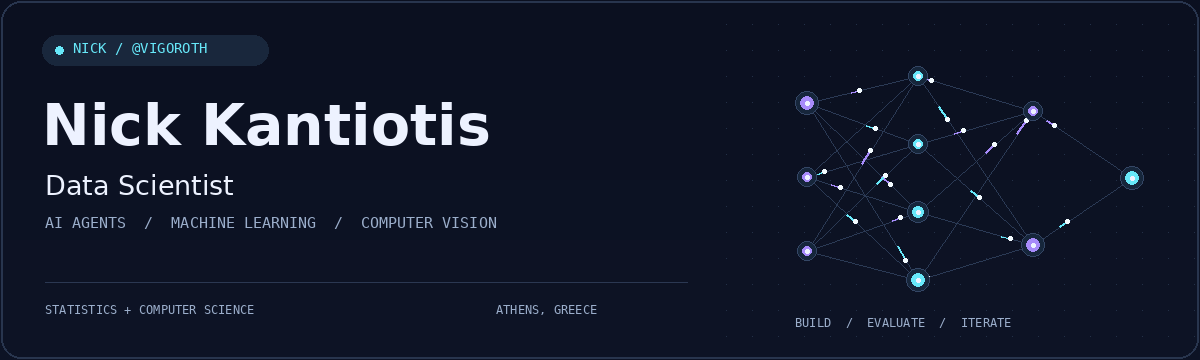
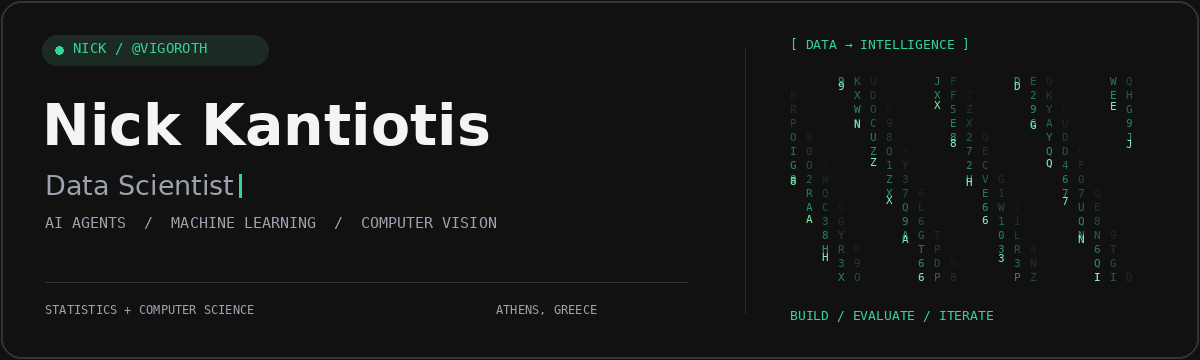
Add files via upload

diff --git a/generate_assets.py b/generate_assets.py
@@ -2,70 +2,78 @@ from pathlib import Path
 from PIL import Image, ImageDraw, ImageFont
 import math
 import html
-import zipfile
+import random
 
 ROOT = Path(__file__).resolve().parent
-ASSETS = ROOT / 'assets'
-ASSETS.mkdir(parents=True, exist_ok=True)
-W, H = 1200, 360
-BG = '#0b1020'
-WHITE = '#edf2ff'
-MUTED = '#9baecb'
-CYAN = '#67e8f9'
-VIOLET = '#a78bfa'
-FONT = '/usr/share/fonts/truetype/dejavu/DejaVuSans.ttf'
-BOLD = '/usr/share/fonts/truetype/dejavu/DejaVuSans-Bold.ttf'
-MONO = '/usr/share/fonts/truetype/dejavu/DejaVuSansMono.ttf'
+ASSETS = ROOT/'assets'
+ASSETS.mkdir(parents=True,exist_ok=True)
+W,H=1200,360
+BG='#111111'
+WHITE='#f3f4f6'
+MUTED='#9ca3af'
+CYAN=VIOLET='#34D399'
+FONT='/usr/share/fonts/truetype/dejavu/DejaVuSans.ttf'
+BOLD='/usr/share/fonts/truetype/dejavu/DejaVuSans-Bold.ttf'
+MONO='/usr/share/fonts/truetype/dejavu/DejaVuSansMono.ttf'
 
-def font(size, style=FONT):
-    return ImageFont.truetype(style, size)
+def font(size,style=FONT):
+    # Linux defaults; a local .ttf with these names also works on other systems.
+    for candidate in [style,Path(style).name,'DejaVuSans.ttf','Arial.ttf','arial.ttf']:
+        try:
+            return ImageFont.truetype(str(candidate),size)
+        except OSError:
+            continue
+    return ImageFont.load_default(size=size)
 
-base = Image.new('RGB', (W,H), BG)
-d = ImageDraw.Draw(base)
-for y in range(H):
-    d.line((0,y,W,y), fill=(11+int(y/H*3),16+int(y/H*4),32+int(y/H*6)))
-for x in range(24,W,26):
-    for y in range(24,H,26):
-        if x > 720:
-            d.point((x,y),fill='#233047')
-d.rounded_rectangle((1,1,W-2,H-2),radius=20,outline='#28354e',width=2)
-d.rounded_rectangle((42,35,268,65),radius=15,fill='#19273c')
+base=Image.new('RGB',(W,H),BG)
+d=ImageDraw.Draw(base)
+d.rounded_rectangle((1,1,W-2,H-2),radius=20,outline='#333333',width=2)
+d.rounded_rectangle((42,35,268,65),radius=15,fill='#1b2a22')
 d.ellipse((55,46,63,54),fill=CYAN)
 d.text((73,40),'NICK / @VIGOROTH',font=font(14,MONO),fill=CYAN)
 d.text((42,92),'Nick Kantiotis',font=font(57,BOLD),fill=WHITE)
-d.text((45,169),'Data Scientist',font=font(27),fill=WHITE)
 d.text((45,214),'AI AGENTS  /  MACHINE LEARNING  /  COMPUTER VISION',font=font(15,MONO),fill=MUTED)
-d.line((45,282,687,282),fill='#2b3852',width=1)
+d.line((45,282,687,282),fill='#333333',width=1)
 d.text((45,302),'STATISTICS + COMPUTER SCIENCE',font=font(12,MONO),fill=MUTED)
 d.text((496,302),'ATHENS, GREECE',font=font(12,MONO),fill=MUTED)
-
-layers = [[(807,103),(807,177),(807,251)],[(918,76),(918,144),(918,212),(918,280)],[(1033,111),(1033,245)],[(1132,178)]]
-edges = [(a,b) for left,right in zip(layers,layers[1:]) for a in left for b in right]
-for a,b in edges:
-    d.line((*a,*b),fill='#2b3a55',width=1)
-d.text((795,315),'BUILD  /  EVALUATE  /  ITERATE',font=font(12,MONO),fill=MUTED)
+d.line((745,48,745,313),fill='#282e2b',width=1)
+d.text((790,36),'[ DATA → INTELLIGENCE ]',font=font(13,MONO),fill=CYAN)
+d.text((790,307),'BUILD / EVALUATE / ITERATE',font=font(13,MONO),fill=CYAN)
+rng=random.Random(42)
+chars='ABCDEFGHIJKLMNOPQRSTUVWXYZ0123456789'
+grid=[[rng.choice(chars) for row in range(15)] for col in range(22)]
 frames=[]
 N=84
+role='Data Scientist'
 for k in range(N):
     im=base.copy()
     draw=ImageDraw.Draw(im)
     phase=k/N
-    for j,(a,b) in enumerate(edges):
-        t=(phase*2+j*0.137)%1
-        x=a[0]+(b[0]-a[0])*t
-        y=a[1]+(b[1]-a[1])*t
-        color=CYAN if j%2 else VIOLET
-        draw.line((x-(b[0]-a[0])*0.075,y-(b[1]-a[1])*0.075,x,y),fill=color,width=2)
-        draw.ellipse((x-2,y-2,x+2,y+2),fill='#f3fbff')
-    for li,layer in enumerate(layers):
-        for ni,(x,y) in enumerate(layer):
-            r=6+2*math.sin(2*math.pi*(phase*2+li/5+ni/8))
-            draw.ellipse((x-r-5,y-r-5,x+r+5,y+r+5),fill='#16263b',outline='#344665')
-            draw.ellipse((x-r,y-r,x+r,y+r),fill=CYAN if li%2 else VIOLET)
-            draw.ellipse((x-2,y-2,x+2,y+2),fill=WHITE)
+    if k<15:
+        count=min(len(role),1+int(k/14*len(role)))
+    elif k<75:
+        count=len(role)
+    else:
+        count=max(1,int((84-k)/9*len(role)))
+    label=role[:count]
+    draw.text((45,169),label,font=font(27),fill=MUTED)
+    if k<15 or k>=75 or k%12<6:
+        x=45+draw.textlength(label,font=font(27))+5
+        draw.rectangle((x,174,x+2,197),fill=CYAN)
+    for col in range(22):
+        head=(phase*15+col*2.731)%15
+        for row in range(15):
+            distance=(head-row)%15
+            a=max(0,1-distance/7)
+            color=tuple(int(17+(v-17)*a*0.73) for v in (52,211,153))
+            x=790+col*16
+            y=74+row*14
+            draw.text((x,y),grid[col][row],font=font(11,MONO),fill=color)
+        hy=74+head*14
+        draw.text((790+col*16,hy),grid[col][int(head)],font=font(11,MONO),fill='#86efac')
     frames.append(im)
-frames[20].save(ASSETS/'header-static.png',optimize=True)
-palette=frames[20].quantize(colors=112)
+frames[40].save(ASSETS/'header-static.png',optimize=True)
+palette=frames[40].quantize(colors=112)
 indexed=[frame.quantize(palette=palette,dither=Image.Dither.NONE) for frame in frames]
 indexed[0].save(ASSETS/'header.gif',save_all=True,append_images=indexed[1:],duration=[80,80,90]*28,loop=0,optimize=True,disposal=1)
 
@@ -83,22 +91,22 @@ cards=[
 ]
 for slug,num,title,kicker,desc,stack,accent in cards:
     svg=svg_start(620,218)
-    svg+='<rect x="1" y="1" width="618" height="216" rx="16" fill="#0e1626" stroke="#2b3852"/>'
-    svg+=f'<rect x="23" y="26" width="38" height="30" rx="8" fill="#1c2940"/>'
+    svg+='<rect x="1" y="1" width="618" height="216" rx="16" fill="#161616" stroke="#333333"/>'
+    svg+=f'<rect x="23" y="26" width="38" height="30" rx="8" fill="#202b25"/>'
     svg+=text(31,47,num,15,accent,'700')+text(77,47,kicker,15,MUTED)
     svg+=text(24,93,title,27,WHITE,'700')
     svg+=text(24,130,desc,18,MUTED)
-    svg+=f'<line x1="24" y1="155" x2="596" y2="155" stroke="#27344d"/>'
+    svg+=f'<line x1="24" y1="155" x2="596" y2="155" stroke="#303b34"/>'
     svg+=text(24,187,stack,15,accent)+text(511,187,'Explore →',14,accent)
     svg+='</svg>'
     (ASSETS/f'{slug}.svg').write_text(svg)
 
-skills=[('Python','#ffd166'),('SQL','#67e8f9'),('PyTorch','#ff9a76'),('OpenCV','#98e5a1'),('LangGraph','#a78bfa'),('FastAPI','#67e8d0'),('DuckDB','#ffd166'),('Docker','#7cb9ff'),('Git','#ff9a76'),('Evaluation','#a78bfa')]
+skills=[(name, '#34D399') for name in ['Python','SQL','PyTorch','OpenCV','LangGraph','FastAPI','DuckDB','Docker','Git','Evaluation']]
 svg=svg_start(1200,120)
 for i,(label,color) in enumerate(skills):
     row,col=divmod(i,5)
     x,y=col*240,row*60
-    svg+=f'<rect x="{x+2}" y="{y+3}" width="226" height="46" rx="9" fill="#111c2e" stroke="#2b3852"/>'
+    svg+=f'<rect x="{x+2}" y="{y+3}" width="226" height="46" rx="9" fill="#191d1b" stroke="#333333"/>'
     svg+=f'<circle cx="{x+20}" cy="{y+26}" r="4" fill="{color}"/>'
     svg+=text(x+35,y+33,label,20,WHITE)
 svg+='</svg>'

diff --git a/SETUP.md b/SETUP.md
@@ -10,9 +10,9 @@ The root should contain `README.md` alongside `assets/header.gif`, `assets/heade
 
 ## Motion and appearance
 
-The header loops every seven seconds. Moving signals travel through a decorative network; it is a visual motif, not a model architecture or measured data. Your name and specialization stay visible throughout the animation.
+The header loops every seven seconds. It combines an emerald Matrix-style character rain with a typing effect for Data Scientist. Your name stays visible throughout. The static version shows the full role.
 
-The README uses a GIF for broad image compatibility. A `<picture>` source requests the static PNG for viewers who prefer reduced motion, where that preference is honored by the renderer. The banner and cards carry their own dark background and remain readable in either GitHub theme.
+The README uses a GIF for broad image compatibility. A `<picture>` source requests the static PNG for viewers who prefer reduced motion, where that preference is honored by the renderer. The banner and cards use charcoal (#111111) and emerald (#34D399), taken from the portfolio source. They carry their own dark background and remain readable in either GitHub theme.
 
 All visual assets are included. There are no external widget servers, API keys, tracking counters or scheduled workflows. Motion does not require JavaScript. The GIF, PNG and SVG files should be committed as files, not pasted into README text.
 
@@ -21,8 +21,17 @@ All visual assets are included. There are no external widget servers, API keys, 
 - Edit the prose and project links in `README.md` directly.
 - The `generate_assets.py` source is included if you want to change the design. It requires Python 3.10+ and Pillow (`python -m pip install Pillow`). Run it in any directory; assets are written alongside that script.
 - For a static header, replace the whole `<picture>...</picture>` block with `![Nick Kantiotis — Data Scientist](./assets/header-static.png)`.
-- Add your verified LinkedIn or portfolio URL to the navigation when ready. No guessed social links or contact details are included.
+- Portfolio, LinkedIn and thesis links come from your portfolio repository. Its configured homepage is included; the live deployment could not be loaded during preparation, so confirm that destination before publishing. LinkedIn and thesis links were read from the Hero component. No CV download is linked because the filename in that source is dated 2025.
 - This is a prepared profile package. It has not been published to your GitHub account.
+
+## Portfolio design reference
+
+The source files in https://github.com/vigoroth/my-portfolio provided the charcoal background, emerald accent, typing treatment, Matrix animation, professional introduction, and public links. The live deployment could not be loaded during this update; the design is based on the repository source.
+
+- `src/components/Hero.js`: #111111, #34D399, typing animation, LinkedIn and thesis links.
+- `src/components/MatrixEffect.js`: emerald character rain.
+- `src/components/About.js`: Statistics & Insurance Science and Computer Science background.
+- Configured repository homepage: https://my-portfolio-umber-eight-91.vercel.app
 
 ## Design inspiration
 

diff --git a/README.md b/README.md
@@ -1,17 +1,20 @@
+<a href="https://my-portfolio-umber-eight-91.vercel.app">
 <picture>
   <source media="(prefers-reduced-motion: reduce)" srcset="./assets/header-static.png">
   <img src="./assets/header.gif" alt="Nick Kantiotis — Data Scientist. AI agents, machine learning and computer vision. Based in Athens, Greece." width="1200">
 </picture>
+</a>
 
 <p align="center">
-  <a href="#selected-projects">Selected projects</a> ·
-  <a href="#technical-toolkit">Technical toolkit</a> ·
-  <a href="#currently-exploring">Currently exploring</a>
+  <a href="https://my-portfolio-umber-eight-91.vercel.app">Portfolio</a> ·
+  <a href="https://www.linkedin.com/in/nick-kantiotis/">LinkedIn</a> ·
+  <a href="https://dione.lib.unipi.gr/xmlui/handle/unipi/17827">Master's thesis</a> ·
+  <a href="#selected-projects">Projects</a>
 </p>
 
 ## Hi, I'm Nick
 
-I'm a **Data Scientist based in Athens**, with a background in **Statistics and Computer Science** and experience in pharmaceutical analytics.
+I'm a **Data Scientist based in Athens**, with a **BSc in Statistics & Insurance Science** and an **MSc in Computer Science**. My professional background is in pharmaceutical analytics, connecting complex data with business decisions.
 
 My projects connect data, machine learning and software engineering: from computer vision experiments to AI agents that use tools and retrieve information. I focus on making the methods, evaluation and practical limitations clear.
 
@@ -39,6 +42,10 @@ My projects connect data, machine learning and software engineering: from comput
 | Data science | Data preparation, statistical analysis, model comparison and experiment design |
 | AI engineering | Retrieval, tool-using agents, APIs and evaluation |
 | Computer vision | Object detection, image segmentation and geometric transformations |
+
+## Research & learning
+
+My master's thesis focuses on **object detection in basketball game videos**, connecting deep learning with sports video analysis. [Read the thesis](https://dione.lib.unipi.gr/xmlui/handle/unipi/17827).
 
 ## Currently exploring
 
